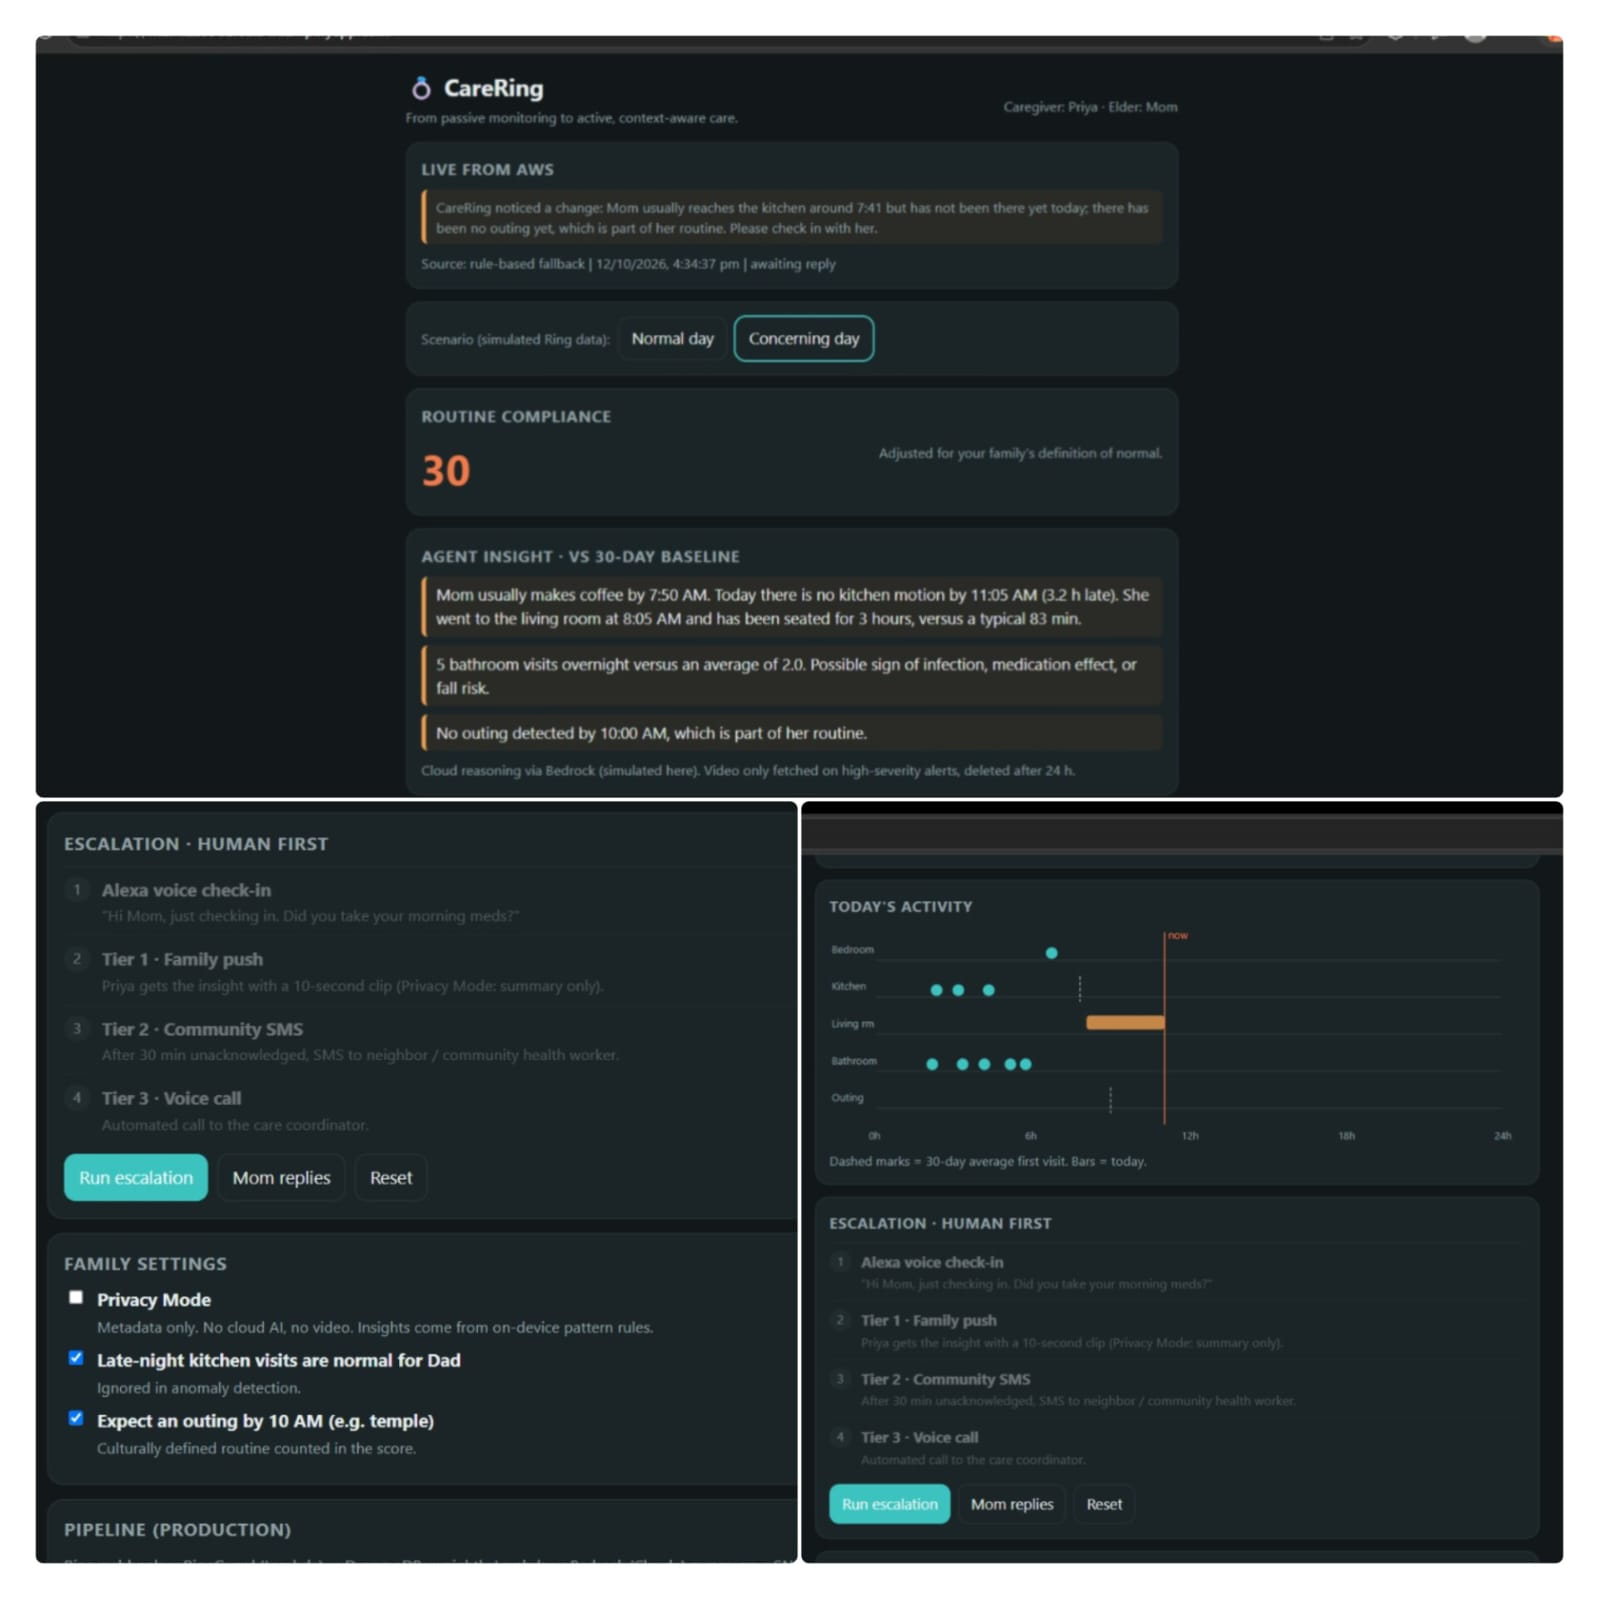
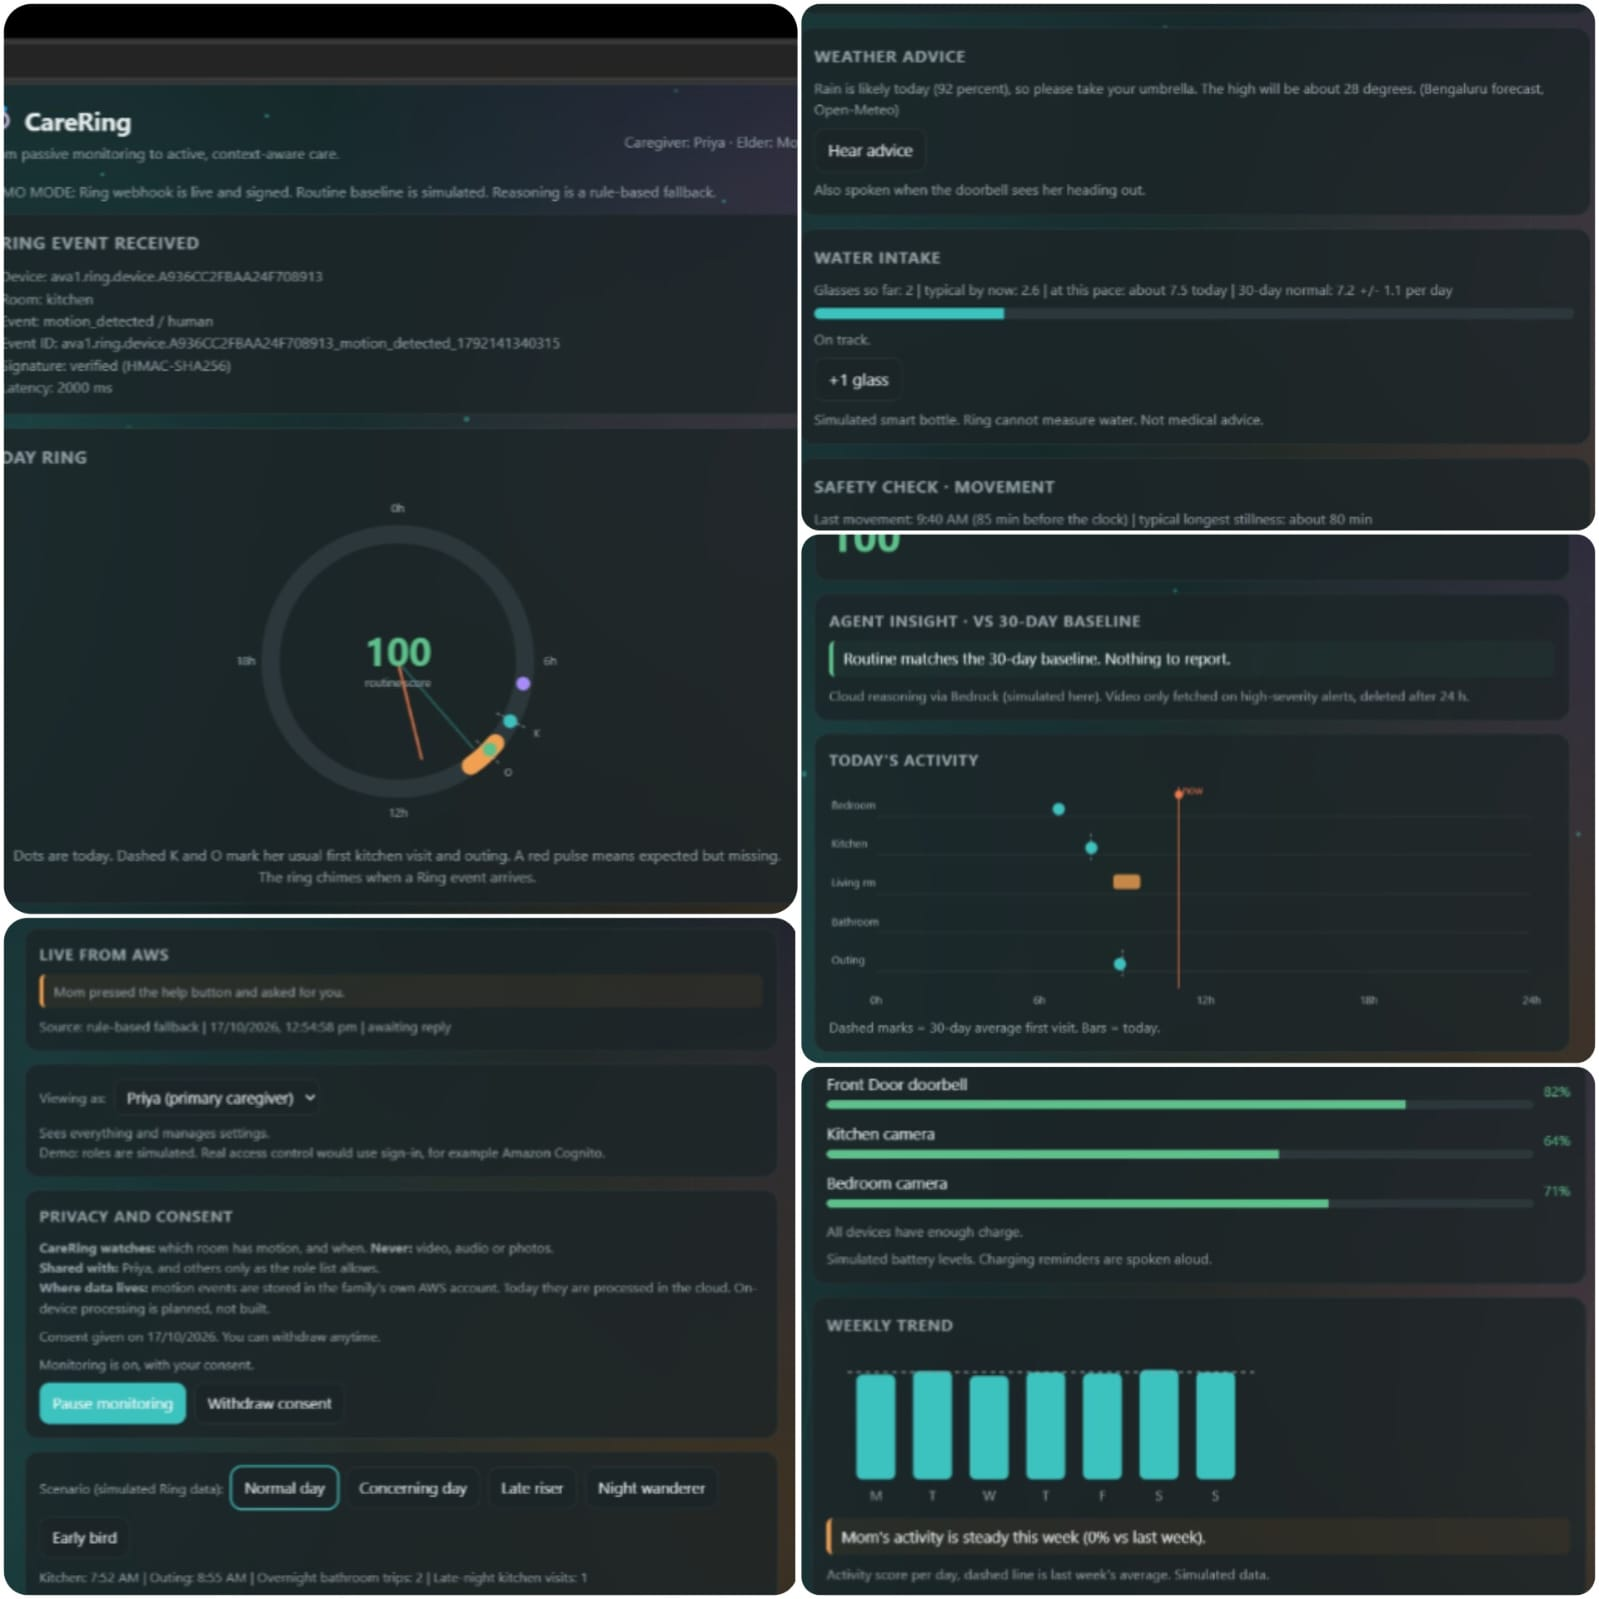
New dashboard screenshot

Changed region(s): [[0.0, 0.0, 1.0, 1.0], [0.1532, 0.3677, 0.1839, 0.4597]]

diff --git a/README.md b/README.md
@@ -7,7 +7,7 @@ No new hardware. CareRing receives signed Ring motion events, learns each elder'
 **Live demo:** https://main.d2096di6el34ri.amplifyapp.com/
 **Built for:** Build, Ship, Shape: Amazon Developer Hackathon, Ring track.
 
-![Dashboard](docs/dashboard.jpeg)
+![Dashboard](docs/dashboard.jpeg?v=4)
 
 ## What it does
 
